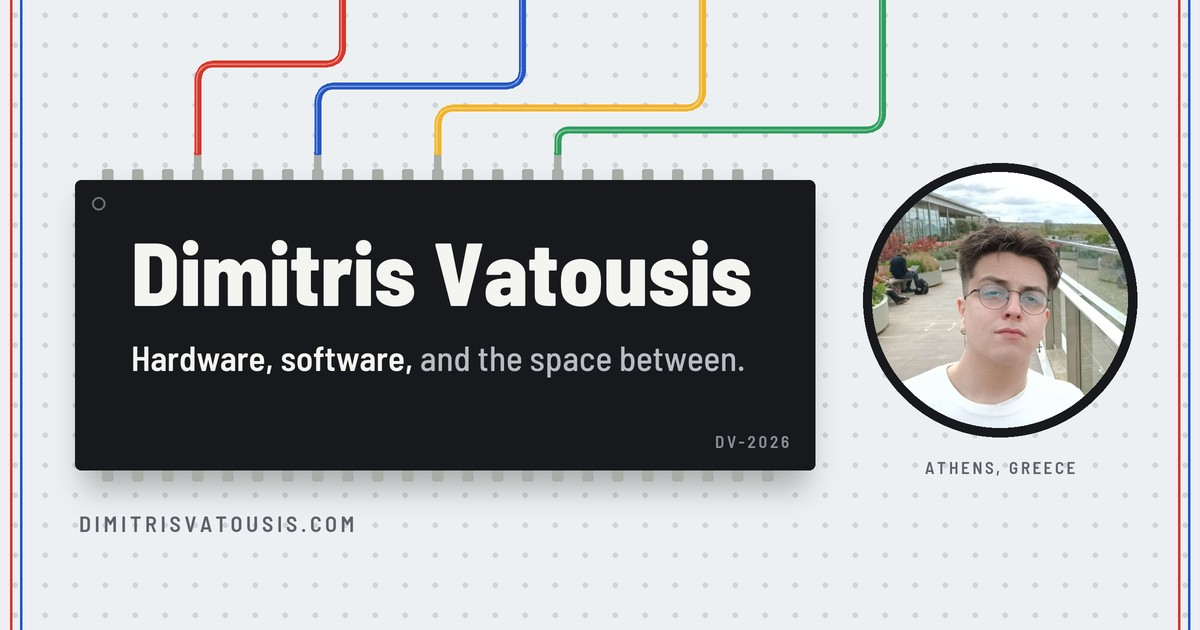
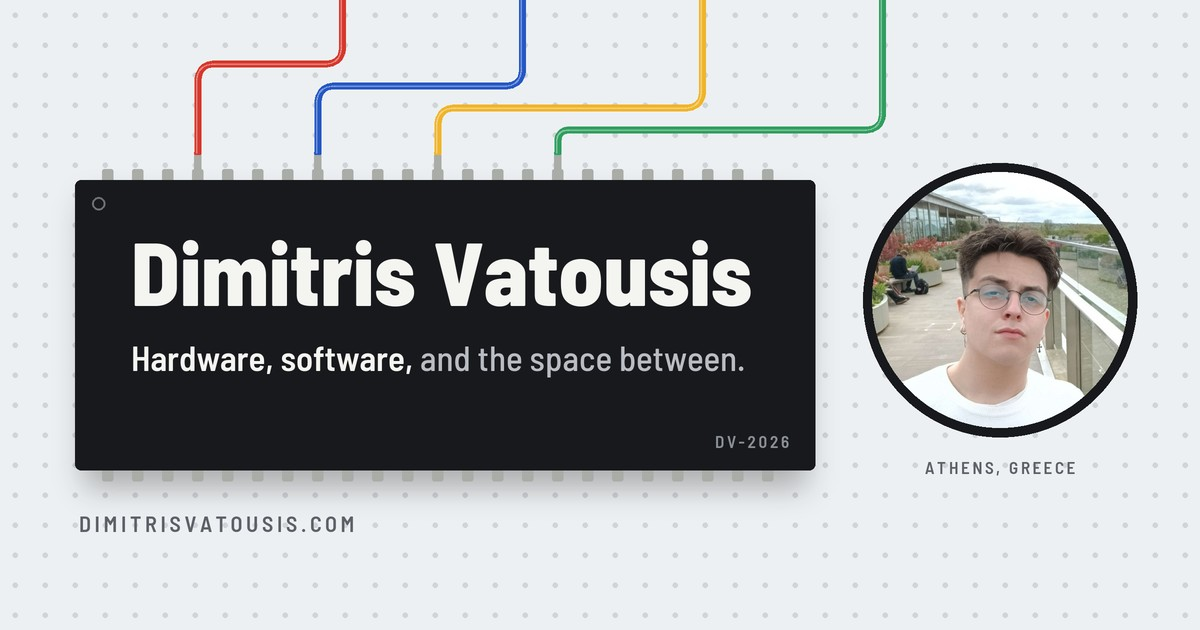
Bring the board to life and tidy the phone layout
Split the jumper wires between both margins and send signal pulses along them once connected.
Power section LEDs, labels, the Experience timeline and the research findings as their wires land.
Drop the hero name in letter by letter, glint chip pins on hover and plug contact rows in on hover.
Re-plug project cards when filtering and add a hidden reset on the hero chip.
Show the chip logo in the phone nav, fit the nav and filter switch on small screens and remove the edge rails.
Add the university to the structured data.

Changed region(s): [[0.9867, 0.0, 1.0, 1.0], [0.0, 0.0, 0.0308, 1.0]]

diff --git a/index.html b/index.html
@@ -35,6 +35,7 @@
                 "description": "Dimitris Vatousis works across hardware and software: electronics, embedded systems and robotics, machine learning, and production platforms for EV charging.",
                 "email": "mailto:dimitrisvatoussis@gmail.com",
                 "worksFor": { "@type": "Organization", "name": "Parity Platform" },
+                "alumniOf": { "@type": "CollegeOrUniversity", "name": "Democritus University of Thrace", "alternateName": "DUTH" },
                 "homeLocation": { "@type": "Place", "address": { "@type": "PostalAddress", "addressLocality": "Athens", "addressCountry": "GR" } },
                 "knowsAbout": ["Electronics", "Embedded systems", "Robotics", "Machine learning", "Software development", "EV charging"],
                 "sameAs": ["https://www.linkedin.com/in/dimitris-vatousis/", "https://github.com/TsipiDev"]
@@ -135,13 +136,6 @@
         .skip { position: absolute; left: 16px; top: -60px; z-index: 300; background: var(--chip); color: var(--chip-text); padding: 10px 14px; font-weight: 600; text-decoration: none; transition: top 0.2s var(--ease-out); }
         .skip:focus { top: 12px; }
 
-        /* Power rails along both edges */
-        .rails { position: fixed; top: 0; bottom: 0; width: 22px; z-index: 5; pointer-events: none; display: flex; gap: 8px; justify-content: center; }
-        .rails.left { left: 6px; }
-        .rails.right { right: 6px; }
-        .rails i { width: 2px; height: 100%; }
-        .rails i:first-child { background: var(--red); }
-        .rails i:last-child { background: var(--blue); }
 
         /* Chip primitive: matte body, metal pins top and bottom, pin one notch */
         .chip {
@@ -153,7 +147,9 @@
         }
         .chip.pins::before, .chip.pins::after {
             content: ""; position: absolute; left: 22px; right: 22px; height: 9px; pointer-events: none;
-            background: repeating-linear-gradient(90deg, var(--pin) 0 9px, transparent 9px var(--pitch));
+            background: linear-gradient(90deg, transparent, rgba(255, 255, 255, 0.95), transparent) -160px 0 / 140px 100% no-repeat, var(--pin);
+            -webkit-mask: repeating-linear-gradient(90deg, #000 0 9px, transparent 9px var(--pitch));
+            mask: repeating-linear-gradient(90deg, #000 0 9px, transparent 9px var(--pitch));
         }
         .chip.pins::before { top: -9px; border-radius: 2px 2px 0 0; }
         .chip.pins::after { bottom: -9px; border-radius: 0 0 2px 2px; }
@@ -166,6 +162,8 @@
         .nav .wrap { height: 100%; display: flex; align-items: center; justify-content: space-between; gap: 12px; }
         .brand { font-family: var(--display); font-weight: 800; font-size: 19px; letter-spacing: 0.04em; color: var(--ink); text-decoration: none; }
         .brand .short { display: none; }
+        .brand .mark { display: block; width: 40px; height: 40px; transition: transform 0.35s var(--ease-out); }
+        .brand:hover .mark { transform: translateY(-2px); }
         .nav-links { display: flex; gap: 10px; }
         .nav-links a {
             position: relative; display: inline-flex; align-items: center; gap: 8px;
@@ -191,6 +189,7 @@
         .wires path.core { fill: none; stroke-width: 6; stroke-linecap: round; stroke-linejoin: round; }
         .wires path.shine { fill: none; stroke: rgba(255, 255, 255, 0.35); stroke-width: 1.5; stroke-linecap: round; stroke-linejoin: round; }
         .wires rect.tip { fill: var(--pin); transition: opacity 0.3s var(--ease-out); }
+        .wires path.pulse { fill: none; stroke: #fff; stroke-opacity: 0.85; stroke-width: 3; stroke-linecap: round; stroke-linejoin: round; opacity: 0; }
 
         main, footer { position: relative; z-index: 2; }
 
@@ -362,6 +361,61 @@
         .hero .lede { animation-delay: 0.45s; }
         .hero .actions { animation-delay: 0.55s; }
 
+        /* Current through the board: a glint along the pins, LEDs that power on when their wire connects */
+        @keyframes glint { to { background-position: calc(100% + 160px) 0, 0 0; } }
+        .chip.pins:hover::before, .chip.pins:hover::after { animation: glint 1s cubic-bezier(0.45, 0, 0.3, 1); }
+        @keyframes blink { 0%, 82% { opacity: 1; } 82.01%, 90% { opacity: 0.3; } 90.01%, 100% { opacity: 1; } }
+        .js .label .led { background: #3a3e44; transition: background-color 0.4s var(--ease-out); }
+        .js .label.powered .led { background: var(--wire); animation: blink 3.4s steps(1, end) infinite; animation-delay: var(--blink, 0s); }
+        .roles li.now::before { animation: blink 3.4s steps(1, end) infinite; }
+
+        /* Hero name: each letter drops into the chip */
+        @keyframes drop { from { opacity: 0; transform: translateY(-0.35em); } }
+        .hero h1 .word { display: inline-block; white-space: nowrap; }
+        .hero h1 .ch { display: inline-block; }
+        .hero h1.seat .ch { animation: drop 0.6s var(--ease-seat) backwards; animation-delay: calc(0.3s + var(--i) * 0.045s); }
+
+        /* A label clicks into the board when its wire lands */
+        @keyframes clickin {
+            40% { transform: translateY(3px) scale(0.985); box-shadow: 0 1px 0 #000, 0 4px 8px -6px rgba(10, 12, 14, 0.55); }
+        }
+        .js .label.powered { animation: clickin 0.45s var(--ease-seat); }
+
+        /* Experience: current flows down the timeline once the section is powered */
+        .js .roles::before { transform-origin: top; transform: scaleY(0); transition: transform 1.1s var(--ease-out) 0.25s; }
+        .js .roles li.now::before { background: var(--board); transition: background-color 0.3s var(--ease-out) 0.15s; }
+        .js .powered .roles::before { transform: none; }
+        .js .powered .roles li.now::before { background: var(--red); }
+        .js .roles li.now::before { animation: none; }
+        .js .powered .roles li.now::before { animation: blink 3.4s steps(1, end) 1.4s infinite; }
+
+        /* Research findings light up one after another, their numbers count up */
+        .count { font-variant-numeric: tabular-nums; }
+        .js .findings li::before { background: var(--board); transition: background-color 0.25s var(--ease-out); }
+        .js .findings.lit li::before { background: var(--yellow); }
+        .js .findings.lit li:nth-child(1)::before { transition-delay: 0.1s; }
+        .js .findings.lit li:nth-child(2)::before { transition-delay: 0.45s; }
+        .js .findings.lit li:nth-child(3)::before { transition-delay: 0.8s; }
+
+        /* Project filter: cards lift out of the board and seat back in */
+        @keyframes vt-seat { from { opacity: 0; transform: translateY(-22px) scale(1.02); } }
+        @keyframes vt-lift { to { opacity: 0; transform: translateY(-18px) scale(0.98); } }
+        ::view-transition-new(*):only-child { animation: vt-seat 0.55s var(--ease-seat) 0.12s backwards; }
+        ::view-transition-old(*):only-child { animation: vt-lift 0.28s cubic-bezier(0.4, 0, 1, 1) forwards; }
+
+        /* Contact rows: a jumper plugs into the row's header on hover */
+        .contact a { position: relative; }
+        .contact a::before { content: ""; position: absolute; left: 0; top: 50%; width: 18px; height: 4px; margin-top: -2px; border-radius: 0 2px 2px 0; background: var(--green); transform: scaleX(0); transform-origin: left; transition: transform 0.3s var(--ease-out); }
+        .contact a:hover::before, .contact a:focus-visible::before { transform: none; }
+        .contact .hdr i:last-child { transition: background-color 0.25s var(--ease-out) 0.1s; }
+        .contact a:hover .hdr i:last-child, .contact a:focus-visible .hdr i:last-child { background: var(--green); }
+
+        /* The pin one ring on the hero chip replays the power on */
+        .notch.reset { appearance: none; padding: 0; background: none; cursor: pointer; transition: border-color 0.3s var(--ease-out); }
+        .notch.reset::after { content: ""; position: absolute; inset: -12px; }
+        .notch.reset:hover, .notch.reset:focus-visible { border-color: var(--yellow); }
+        .hero .chip.pins.glint::before, .hero .chip.pins.glint::after { animation: glint 1.3s var(--glint-delay, 1.1s) cubic-bezier(0.45, 0, 0.3, 1); }
+
         .js .reveal { transition: opacity 0.8s var(--ease-out), transform 0.8s var(--ease-out); transition-delay: var(--d, 0s); }
         .js .reveal:not(.in) { opacity: 0; transform: translateY(18px); }
         .js .label.reveal { transition: opacity 0.6s var(--ease-out), transform 0.7s var(--ease-seat); }
@@ -386,16 +440,20 @@
         }
         @media (max-width: 720px) {
             .brand .full { display: none; }
-            .brand .short { display: inline; }
+            .brand .short { display: block; }
+            .brand .mark { width: 34px; height: 34px; }
+            .nav .wrap { padding: 0 16px; }
+            .dip-body { gap: 7px; padding: 12px 10px 10px; }
+            .switch .n { font-size: 11.5px; letter-spacing: 0.03em; }
             .nav-links { gap: 6px; }
             .nav-links a { font-size: 12.5px; letter-spacing: 0.06em; padding: 8px 9px 9px; }
             .nav-links a .led { display: none; }
             :root { --gutter: 34px; }
-            .rails { display: none; }
             .grid { grid-template-columns: 1fr; }
             .project.wide { grid-column: auto; padding: 34px 24px 26px; }
             .project.wide h3 { font-size: 24px; }
             .wires path.core { stroke-width: 4; }
+            .wires path.pulse { stroke-width: 2; }
             .hero-grid { position: relative; }
             .portrait { position: absolute; right: calc(var(--gutter) + 12px); top: 0; width: 96px; margin: 0; z-index: 3; }
             .hero-grid > div:first-child { padding-top: 52px; }
@@ -411,6 +469,12 @@
         @media (max-width: 380px) {
             .nav-links a { font-size: 12px; padding: 8px 7px 9px; letter-spacing: 0.04em; }
         }
+        @media (max-width: 340px) {
+            .nav .wrap { padding: 0 10px; }
+            .brand .mark { width: 28px; height: 28px; }
+            .nav-links { gap: 4px; }
+            .nav-links a { font-size: 11px; padding: 7px 5px 8px; letter-spacing: 0.02em; }
+        }
     </style>
 </head>
 <body>
@@ -425,12 +489,9 @@
 
     <a class="skip" href="#main">Skip to content</a>
 
-    <div class="rails left" aria-hidden="true"><i></i><i></i></div>
-    <div class="rails right" aria-hidden="true"><i></i><i></i></div>
-
     <header class="nav" id="nav">
         <div class="wrap">
-            <a class="brand" href="#top" aria-label="Dimitris Vatousis, back to top"><span class="full">Dimitris Vatousis</span><span class="short">DV</span></a>
+            <a class="brand" href="#top" aria-label="Dimitris Vatousis, back to top"><span class="full">Dimitris Vatousis</span><span class="short"><svg class="mark" viewBox="0 0 64 64" aria-hidden="true"><rect x="10.5" y="7" width="6" height="8" rx="1" fill="#a9aca7"/><rect x="10.5" y="49" width="6" height="8" rx="1" fill="#a9aca7"/><rect x="22.5" y="7" width="6" height="8" rx="1" fill="#a9aca7"/><rect x="22.5" y="49" width="6" height="8" rx="1" fill="#a9aca7"/><rect x="34.5" y="7" width="6" height="8" rx="1" fill="#a9aca7"/><rect x="34.5" y="49" width="6" height="8" rx="1" fill="#a9aca7"/><rect x="46.5" y="7" width="6" height="8" rx="1" fill="#a9aca7"/><rect x="46.5" y="49" width="6" height="8" rx="1" fill="#a9aca7"/><rect x="6" y="13" width="52" height="38" rx="4.5" fill="#17191c"/><circle cx="11.0" cy="18.0" r="2.3" fill="#f0b429"/><path fill="#f4f4f1" d="M17.77 41.66V22.34Q17.77 22.2 17.87 22.1Q17.97 22 18.11 22H24.49Q26.51 22 28.06 22.74Q29.6 23.49 30.44 24.83Q31.29 26.17 31.29 27.94V36.06Q31.29 37.83 30.44 39.17Q29.6 40.51 28.06 41.26Q26.51 42 24.49 42H18.11Q17.97 42 17.87 41.9Q17.77 41.8 17.77 41.66ZM22.66 37.94 24.54 37.91Q25.4 37.91 25.96 37.26Q26.51 36.6 26.54 35.49V28.49Q26.54 27.4 25.99 26.73Q25.43 26.06 24.51 26.06H22.66Q22.51 26.06 22.51 26.2V37.8Q22.51 37.94 22.66 37.94Z"/><path fill="#f4f4f1" d="M38.37 41.71 33.46 22.37V22.26Q33.46 22 33.77 22H38.17Q38.49 22 38.54 22.31L41 34.51Q41.03 34.6 41.09 34.6Q41.14 34.6 41.17 34.51L43.57 22.31Q43.6 22 43.94 22H48.23Q48.63 22 48.54 22.37L43.57 41.71Q43.49 42 43.17 42H38.77Q38.46 42 38.37 41.71Z"/></svg></span></a>
             <nav class="nav-links" aria-label="Sections">
                 <a class="w-red" href="#experience"><span class="led" aria-hidden="true"></span>Experience</a>
                 <a class="w-blue" href="#projects"><span class="led" aria-hidden="true"></span>Projects</a>
@@ -447,7 +508,7 @@
             <div class="wrap hero-grid">
                 <div>
                     <div class="chip pins" id="hero-chip">
-                        <span class="notch" aria-hidden="true"></span>
+                        <button class="notch reset" type="button" aria-label="Replay the board power on" title="Reset the board"></button>
                         <h1>Dimitris Vatousis</h1>
                         <p class="tagline"><b>Hardware, software,</b> and the space between.</p>
                         <span class="print part" aria-hidden="true">DV-2026</span>
@@ -582,8 +643,8 @@
                                 <div><dt>Supervisor</dt><dd>Assoc. Prof. Dimitrios Karampatzakis</dd></div>
                             </dl>
                             <ul class="findings" aria-label="Key findings">
-                                <li><strong>INT8 quantization cut energy per generated token by about 45%</strong> across all three models.</li>
-                                <li><strong>Power draw stayed nearly constant at 8.1 to 8.5 W,</strong> so energy is set mainly by how long inference runs.</li>
+                                <li><strong>INT8 quantization cut energy per generated token by about <span class="count" data-to="45">45</span>%</strong> across all three models.</li>
+                                <li><strong>Power draw stayed nearly constant at <span class="count" data-to="8.1" data-dec="1">8.1</span> to <span class="count" data-to="8.5" data-dec="1">8.5</span> W,</strong> so energy is set mainly by how long inference runs.</li>
                                 <li><strong>Model size affected energy more than any optimisation technique.</strong> Pruning without retraining gave no benefit.</li>
                             </ul>
                             <div class="doc-chips">
@@ -661,6 +722,7 @@
             var colors = ['var(--red)', 'var(--blue)', 'var(--yellow)', 'var(--green)'];
             var sockets = Array.prototype.slice.call(document.querySelectorAll('[data-socket]'));
             var wires = [];
+            var boost = 1;   // scales every wire's progress; the hidden reset runs it to 0 and back
 
             function roundedPath(pts, r) {
                 var d = 'M' + pts[0][0] + ' ' + pts[0][1];
@@ -686,18 +748,27 @@
                 svg.style.height = docH + 'px';
                 var sy = window.scrollY;
                 var heroLeft = document.getElementById('hero-chip').getBoundingClientRect().left;
+                var pageW = document.documentElement.clientWidth;
+                var heroRight = pageW - heroLeft;
                 var wide = heroLeft >= 120;
                 var gap = wide ? 14 : 6, inset = wide ? 44 : 8;
                 var navBottom = 56;
 
+                // First two wires run down the left margin, the last two down the right.
+                // On each side the outer nav chip takes the outer, shallower lane so the wires never cross at the top.
                 links.forEach(function (a, i) {
+                    var right = i >= 2;
+                    var outer = i === 0 || i === 3;
                     var sr = sockets[i].getBoundingClientRect();
-                    var sx = sr.left, sy2 = sr.top + sy + sr.height / 2;
+                    var sy2 = sr.top + sy + sr.height / 2;
                     var ar = a.getBoundingClientRect();
                     var startX = ar.left + ar.width / 2;
-                    var laneY = navBottom + (wide ? 34 : 26) + i * (wide ? 12 : 8);
-                    var laneX = Math.max(4, heroLeft - inset - (3 - i) * gap);
-                    var pts = [[startX, navBottom], [startX, laneY], [laneX, laneY], [laneX, sy2], [sx - 4, sy2]];
+                    var laneY = navBottom + (wide ? 34 : 26) + (outer ? 0 : 1) * (wide ? 12 : 8);
+                    var laneX = right
+                        ? Math.min(pageW - 4, heroRight + inset + (outer ? gap : 0))
+                        : Math.max(4, heroLeft - inset - (outer ? gap : 0));
+                    var endX = right ? sr.right + 4 : sr.left - 4;
+                    var pts = [[startX, navBottom], [startX, laneY], [laneX, laneY], [laneX, sy2], [endX, sy2]];
                     var d = roundedPath(pts, 14);
                     var g = document.createElementNS(SVGNS, 'g');
                     var core = document.createElementNS(SVGNS, 'path');
@@ -709,15 +780,23 @@
                     shine.setAttribute('class', 'shine');
                     var tip = document.createElementNS(SVGNS, 'rect');
                     tip.setAttribute('class', 'tip');
-                    tip.setAttribute('x', sx - 12);
+                    tip.setAttribute('x', right ? sr.right + 2 : sr.left - 12);
                     tip.setAttribute('y', sy2 - 2.5);
                     tip.setAttribute('width', 10);
                     tip.setAttribute('height', 5);
-                    g.appendChild(core); g.appendChild(shine); g.appendChild(tip);
+                    var pulse = document.createElementNS(SVGNS, 'path');
+                    pulse.setAttribute('d', d);
+                    pulse.setAttribute('class', 'pulse');
+                    g.appendChild(core); g.appendChild(shine); g.appendChild(pulse); g.appendChild(tip);
                     svg.appendChild(g);
                     var len = core.getTotalLength();
                     core.style.strokeDasharray = shine.style.strokeDasharray = len + ' ' + len;
-                    wires.push({ core: core, shine: shine, tip: tip, len: len, startY: pts[0][1], endY: sy2 });
+                    // One short pulse per period; the long gap keeps a pause between pulses at a constant speed
+                    var period = len + 1500;
+                    pulse.style.strokeDasharray = '22 ' + period;
+                    pulse.style.strokeDashoffset = 22;
+                    sockets[i].style.setProperty('--blink', (i * 0.85) + 's');
+                    wires.push({ core: core, shine: shine, pulse: pulse, tip: tip, len: len, period: period + 22, delay: i * 700, anim: null, socket: sockets[i], startY: pts[0][1], endY: sy2 });
                 });
                 drawWires();
             }
@@ -725,11 +804,23 @@
             function drawWires() {
                 var reach = window.scrollY + window.innerHeight * 0.72;
                 wires.forEach(function (w) {
-                    var p = reduced ? 1 : Math.max(0, Math.min(1, (reach - w.startY) / (w.endY - w.startY)));
+                    var p = reduced ? 1 : Math.max(0, Math.min(1, (reach - w.startY) / (w.endY - w.startY))) * boost;
                     var off = w.len * (1 - p);
                     w.core.style.strokeDashoffset = off;
                     w.shine.style.strokeDashoffset = off;
                     w.tip.style.opacity = p >= 1 ? 1 : 0;
+                    var live = p >= 1;
+                    w.socket.classList.toggle('powered', live);
+                    w.socket.closest('section').classList.toggle('powered', live);
+                    if (reduced || !w.pulse.animate) return;
+                    if (live && !w.anim) {
+                        w.pulse.style.opacity = 1;
+                        w.anim = w.pulse.animate([{ strokeDashoffset: 22 }, { strokeDashoffset: 22 - w.period }], { duration: w.period / 0.6, delay: w.delay, iterations: Infinity });
+                    } else if (!live && w.anim) {
+                        w.anim.cancel();
+                        w.anim = null;
+                        w.pulse.style.opacity = 0;
+                    }
                 });
             }
 
@@ -779,6 +870,77 @@
                         document.startViewTransition(run).finished.then(layoutWires);
                     } else { run(); layoutWires(); }
                 });
+            });
+
+            // Hero name: split into letters so each can drop into the chip (screen readers get the whole name)
+            var heroChip = document.getElementById('hero-chip');
+            var h1 = heroChip.querySelector('h1');
+            if (!reduced) {
+                var fullName = h1.textContent, n = 0;
+                h1.setAttribute('aria-label', fullName);
+                h1.innerHTML = fullName.split(' ').map(function (word) {
+                    return '<span class="word" aria-hidden="true">' + word.split('').map(function (c) {
+                        return '<span class="ch" style="--i:' + (n++) + '">' + c + '</span>';
+                    }).join('') + '</span>';
+                }).join(' ');
+                h1.classList.add('seat');
+            }
+            heroChip.classList.add('glint');
+
+            // Research findings: the bullets light up in turn and the figures count up
+            var findings = document.querySelector('.findings');
+            var counts = findings ? Array.prototype.slice.call(findings.querySelectorAll('.count')) : [];
+            function countUp(el) {
+                var to = parseFloat(el.dataset.to), dec = +(el.dataset.dec || 0), t0 = null;
+                function frame(now) {
+                    if (t0 === null) t0 = now;
+                    var k = Math.min(1, (now - t0) / 1100);
+                    el.textContent = (to * (1 - Math.pow(1 - k, 3))).toFixed(dec);
+                    if (k < 1) requestAnimationFrame(frame);
+                }
+                requestAnimationFrame(frame);
+            }
+            function lightFindings() {
+                findings.classList.add('lit');
+                if (!reduced) counts.forEach(countUp);
+            }
+            if (findings) {
+                if (reduced || !('IntersectionObserver' in window)) {
+                    lightFindings();
+                } else {
+                    counts.forEach(function (el) { el.textContent = (0).toFixed(+(el.dataset.dec || 0)); });
+                    var fo = new IntersectionObserver(function (entries) {
+                        if (entries[0].isIntersecting) { lightFindings(); fo.disconnect(); }
+                    }, { threshold: 0.6 });
+                    fo.observe(findings);
+                }
+            }
+
+            // Hidden reset: the pin one ring retracts every wire, then powers the board on again
+            document.querySelector('.notch.reset').addEventListener('click', function () {
+                if (reduced) return;
+                var t0 = performance.now(), relit = false;
+                function step(now) {
+                    var e = now - t0;
+                    if (e < 450) {
+                        boost = 1 - e / 450;
+                    } else {
+                        if (!relit) {
+                            relit = true;
+                            h1.classList.remove('seat');
+                            heroChip.classList.remove('glint');
+                            void h1.offsetWidth;
+                            h1.classList.add('seat');
+                            heroChip.style.setProperty('--glint-delay', '0.2s');
+                            heroChip.classList.add('glint');
+                        }
+                        var k = Math.min(1, (e - 450) / 1800);
+                        boost = k < 0.5 ? 2 * k * k : 1 - Math.pow(2 - 2 * k, 2) / 2;
+                    }
+                    drawWires();
+                    if (e < 2250) requestAnimationFrame(step); else { boost = 1; drawWires(); }
+                }
+                requestAnimationFrame(step);
             });
 
             onScrollNav();

diff --git a/404.html b/404.html
@@ -53,12 +53,6 @@
         ::selection { background: var(--yellow); color: var(--ink); }
         :focus-visible { outline: 2px dashed var(--blue); outline-offset: 4px; }
 
-        .rails { position: fixed; top: 0; bottom: 0; width: 22px; pointer-events: none; display: flex; gap: 8px; justify-content: center; }
-        .rails.left { left: 6px; }
-        .rails.right { right: 6px; }
-        .rails i { width: 2px; height: 100%; }
-        .rails i:first-child { background: var(--red); }
-        .rails i:last-child { background: var(--blue); }
 
         .stage { position: relative; width: 100%; max-width: 640px; }
 
@@ -105,7 +99,6 @@
         @keyframes seat { from { opacity: 0; transform: translateY(-14px); } }
 
         @media (max-width: 720px) {
-            .rails { display: none; }
             body { padding-left: 20px; padding-right: 20px; }
             .chip { padding: calc(var(--pitch) * 1.75) calc(var(--pitch) * 1.25) calc(var(--pitch) * 2); }
         }
@@ -117,8 +110,6 @@
     </style>
 </head>
 <body>
-    <div class="rails left" aria-hidden="true"><i></i><i></i></div>
-    <div class="rails right" aria-hidden="true"><i></i><i></i></div>
 
     <main class="stage">
         <svg class="loose" viewBox="0 0 140 400" aria-hidden="true">
